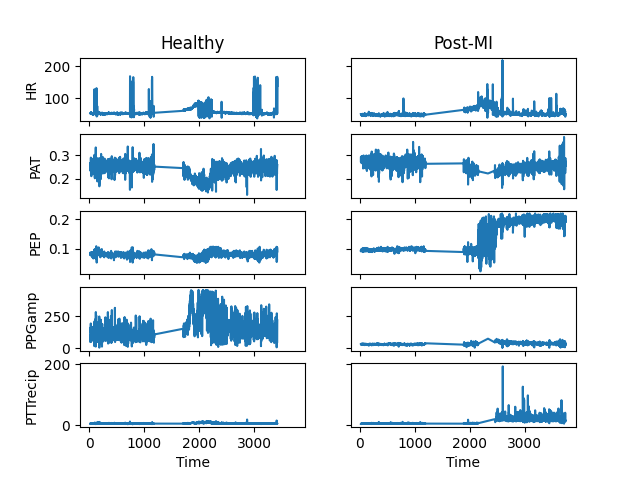
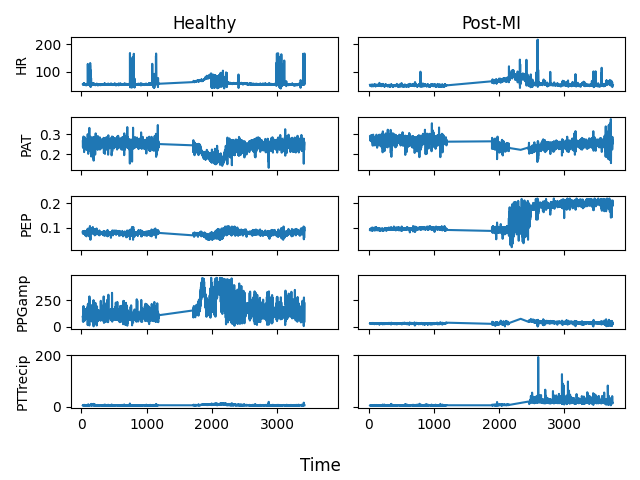
Super x label

diff --git a/data_processing.py b/data_processing.py
@@ -111,9 +111,8 @@ for i, feature in enumerate(Feature):
     time_MI, feat_MI = join_stimulus(dataframes_MI, 3, i)
     axes[i, 1].plot(time_MI, feat_MI)
 
-axes[4, 0].set_xlabel('Time')
-axes[4, 1].set_xlabel('Time')
-
+fig.supxlabel('Time')
+plt.tight_layout()
 plt.show()
 
 # Individual stimulus
@@ -127,4 +126,6 @@ for i, feature in enumerate(Feature):
         time_Ht, feat_Ht = access_df(dataframes_Ht, 1, j, i)
         axes[i, j].plot(time_Ht, feat_Ht)
 
+fig.supxlabel('Time')
+plt.tight_layout()
 plt.show()
